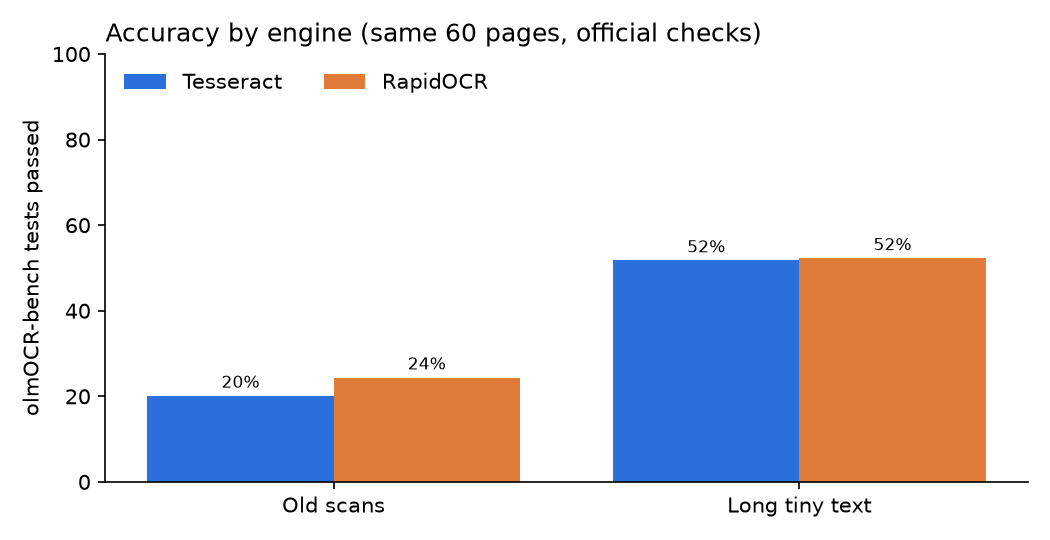
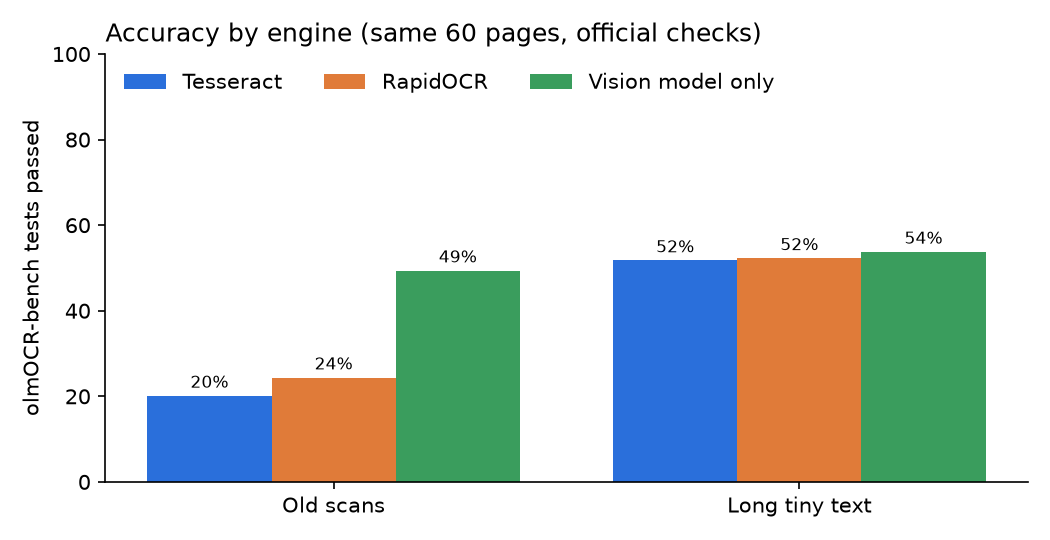
feat: thresholds from the vision benchmark, 0.94 tesseract and 0.96 ocr server

diff --git a/src/ingest.ts b/src/ingest.ts
@@ -39,14 +39,6 @@ export interface OcrOptions {
   serverUrl?: string;
   /** extra HTTP headers sent with every request to `serverUrl` (e.g. auth). */
   serverHeaders?: Record<string, string>;
-  /** OCR language: a Tesseract code (`eng`, `deu`) for the built-in engine, ISO-639-1 (`en`) for servers. */
-  language?: string;
-  /** render DPI for scanned pages and OCR input; higher improves accuracy at a memory cost. */
-  dpi?: number;
-  /** concurrent OCR workers. @default min(4, CPU count) — avoids oversubscription on small (2 vCPU) boxes. */
-  numWorkers?: number;
-  /** path to a `tessdata` directory (built-in Tesseract engine only). */
-  tessdataPath?: string;
 }
 
 export interface IngestOptions {
@@ -63,18 +55,17 @@ export interface IngestOptions {
   visionPrompt: string;
   /** OCR backend: built-in Tesseract (default) or an external server (RapidOCR, PaddleOCR, ...) */
   ocr?: OcrOptions;
-  /** LiteParse settings, e.g. `{ ocrLanguage: 'deu' }` or `{ poolSize: 2, parseTimeoutMs: 60_000 }` */
+  /** LiteParse settings, e.g. `{ ocrLanguage: 'deu', dpi: 200 }` or `{ poolSize: 1, parseTimeoutMs: 60_000 }` */
   liteparse?: Partial<LiteParseConfig> & PoolOptions;
   /** called for every OCR'd image; log it to tune `minConfidence` for your engine and documents */
   onOcr?: (confidence: number, toVision: boolean) => void;
 }
 
 /**
- * Default `minConfidence` per OCR engine. Engines calibrate confidence differently, so one number can't fit
- * both: on olmOCR-bench (bench/README.md) OCR text starts passing about half the checks at 0.90 for
- * Tesseract and 0.93 for RapidOCR; below 0.85 it passes under a quarter.
+ * Default `minConfidence` per OCR engine; engines scale confidence differently. Measured on olmOCR-bench (README):
+ * a vision model beat OCR text on nearly every scanned page, so only the most confident OCR skips it.
  */
-export const MIN_CONFIDENCE = { tesseract: 0.9, server: 0.93 } as const;
+export const MIN_CONFIDENCE = { tesseract: 0.94, server: 0.96 } as const;
 
 /** error whose message is safe to show the model */
 export class AttachmentError extends Error {}
@@ -92,7 +83,7 @@ const IMAGE_FORMATS: Readonly<Record<string, string>> = { jpg: FileType.JPEG, jp
 const text = (t: string): Part => ({ type: 'text', text: t });
 
 /** OCR confidence of the whole image: per-item scores weighted by text length; no text at all = 0 */
-export function ocrConfidence(items: TextItem[]): number {
+function ocrConfidence(items: TextItem[]): number {
   let chars = 0;
   let sum = 0;
   for (const i of items) {
@@ -111,13 +102,9 @@ const UNUSABLE_TEXT = new Set(['scanned', 'garbled', 'vector-text']);
 const isScanned = (p: ParsedPage) =>
   !p.text.trim() || (p.complexity?.reasons.some((r) => UNUSABLE_TEXT.has(r)) ?? false);
 
-/** translate the `ocr` option group into LiteParse config; unset fields fall through to LiteParse defaults */
+/** the `ocr` option as LiteParse config */
 function ocrConfig(ocr: OcrOptions = {}): Partial<LiteParseConfig> {
-  const config: Partial<LiteParseConfig> = { numWorkers: Math.min(4, Math.max(1, cpus().length)) };
-  if (ocr.language) config.ocrLanguage = ocr.language;
-  if (ocr.dpi) config.dpi = ocr.dpi;
-  if (ocr.numWorkers) config.numWorkers = ocr.numWorkers;
-  if (ocr.tessdataPath) config.tessdataPath = ocr.tessdataPath;
+  const config: Partial<LiteParseConfig> = {};
   if (ocr.engine === 'server') {
     // fail at setup, not by silently OCR-ing with Tesseract instead
     if (!ocr.serverUrl) throw new TypeError("ocr: engine 'server' needs `serverUrl`");
@@ -131,8 +118,9 @@ function ocrConfig(ocr: OcrOptions = {}): Partial<LiteParseConfig> {
 
 export function createIngest(opts: IngestOptions) {
   const minConfidence = opts.minConfidence ?? MIN_CONFIDENCE[opts.ocr?.engine === 'server' ? 'server' : 'tesseract'];
-  // `ocr` wins over the raw `liteparse` passthrough so the backend is always explicit
-  const shared = { ...opts.liteparse, ...ocrConfig(opts.ocr) };
+  // OCR workers capped at 4 so a small (2 vCPU) box isn't oversubscribed; `liteparse` can override it,
+  // but not the engine chosen with `ocr`
+  const shared = { numWorkers: Math.min(4, cpus().length), ...opts.liteparse, ...ocrConfig(opts.ocr) };
   // documents: native text only; everything raster is OCR'd by processImage, so nothing is read twice
   const documents = new LiteParse({
     ...shared,

diff --git a/test/middleware.test.ts b/test/middleware.test.ts
@@ -33,7 +33,7 @@ const textOf = (parts: { text?: string }[]) => parts.map((p) => p.text ?? '').jo
 const images = (parts: { type: string }[]) => parts.filter((p) => p.type === 'file').length;
 
 test('clean scan: OCR is confident, the model gets text only', async () => {
-  const parts = await sent(fixture('scan.pdf'), FileType.PDF);
+  const parts = await sent(fixture('scan.pdf'), FileType.PDF, { minConfidence: 0.9 }); // this scan OCRs at 0.93
   assert.match(textOf(parts), /Alan Turing/);
   assert.equal(images(parts), 0);
 });

diff --git a/README.md b/README.md
@@ -95,25 +95,26 @@ independently of the app. `OCR_THREADS` (default 4) sets ONNX threads per reques
 ## Choosing `minConfidence`
 
 OCR engines report a confidence per line. It is the engine's own estimate, **not a measure of correctness**,
-and engines calibrate it differently — RapidOCR's scores sit higher than Tesseract's on the same pages.
+and engines scale it differently — RapidOCR's scores sit higher than Tesseract's on the same pages.
 
 ![Page confidence vs checks passed](docs/images/confidence.png)
 
-Per page, on [olmOCR-bench](#benchmark) (share of human-verified checks the OCR text passes):
+The threshold was chosen by replaying routing on the [benchmark](#benchmark) at every value from 0.50 to 1.00:
+a page whose OCR confidence is at or above the threshold keeps its OCR text, anything below goes to the vision
+model. The rule: the cheapest threshold whose score is within 1 point of the best.
 
-| page confidence | Tesseract | RapidOCR |
-|---|---|---|
-| below 0.85 | 0–20% | 0–22% |
-| 0.85 – 0.90 | 24% | – |
-| 0.90 – 0.93 | 50% | – |
-| 0.93 and above | 28%¹ | 48–53% |
+![Quality vs share of pages sent to the vision model](docs/images/threshold.png)
 
-¹ 3 pages.
+There is no knee: quality rises all the way until every page that needed OCR goes to the vision model. So the
+defaults (`MIN_CONFIDENCE`) are **0.94 for Tesseract and 0.96 for an OCR server** (tuned on RapidOCR) —
+only near-perfect OCR skips the vision model. What that means in practice:
 
-So the default threshold depends on the engine: **0.90 for Tesseract, 0.93 for an OCR server** (tuned on
-RapidOCR), exported as `MIN_CONFIDENCE`. Below it, OCR text fails most checks and the page goes to the vision
-model. These defaults are provisional until the vision-model run is in the benchmark: the final choice is the
-cheapest threshold whose routed score is within 1 point of the best (see [bench/README.md](bench/README.md)).
+- **With `visionModel`:** scans and pictures are read by the vision model; OCR saves the call only on very
+  clean pages. gpt-5-mini cost about $0.005 per page image in the benchmark.
+- **Without `visionModel`:** low-confidence images go to the main model as images; OCR is what turns the rest
+  into cheap text.
+- **Cheaper, lower quality:** set a lower `minConfidence` (e.g. 0.85) to keep more OCR text and send fewer
+  images.
 
 For your own documents, log what the pipeline sees and set `minConfidence` explicitly:
 
@@ -124,30 +125,31 @@ liteparseAttachments({ minConfidence: 0.9, onOcr: (confidence, toVision) => metr
 ## Benchmark
 
 [olmOCR-bench](https://huggingface.co/datasets/allenai/olmOCR-bench) `old_scans` + `long_tiny_text`: the first
-30 pages of each (60 pages, 363 human-verified checks), run through this package's real pipeline in the Linux
-image and scored with olmOCR's official scorer. OCR text kept on every page to measure the engines alone.
+30 pages of each, sorted by name (60 pages, 363 human-verified checks). Every page went through this package's
+real pipeline in the Linux image and was scored with olmOCR's official scorer (`olmocr[bench]==0.4.27`).
+The OCR rows keep OCR text on every page to measure the engines alone.
 
-| engine | score (± 95% CI) | old scans | long tiny text | median / p95 per page |
+| mode | score (± 95% CI) | old scans | long tiny text | median / p95 per page |
 |---|---|---|---|---|
-| Tesseract | 35.9% ± 4.7 | 20.1% | 51.8% | 2.6 s / 12.0 s |
-| RapidOCR (PP-OCRv5) | 38.3% ± 4.9 | 24.4% | 52.3% | 6.2 s / 14.9 s |
-| Vision model only (`none`) | pending² | | | |
+| Tesseract | 35.9% ± 4.8 | 20.1% | 51.8% | 2.6 s / 12.0 s |
+| RapidOCR (PP-OCRv5) | 38.3% ± 4.7 | 24.4% | 52.3% | 6.2 s / 14.9 s |
+| Vision model only (`engine: 'none'`, gpt-5-mini) | **51.6% ± 5.3** | **49.4%** | 53.8% | 15.5 s / 86.5 s |
+| Tesseract, vision below 0.94 (default) | 51.6% | | | |
 
-² Awaiting the vision-model run (gpt-5-mini via OpenRouter).
-
-![Accuracy by engine](docs/images/quality.png)
+![Accuracy by mode](docs/images/quality.png)
 ![Speed per page](docs/images/speed.png)
 
 Takeaways:
 
-- **RapidOCR is not measurably more accurate** on this sample — the gap is inside the confidence interval —
-  and it is about 2x slower per page on the same CPU budget. Keep Tesseract as the default; use the RapidOCR service to move OCR off
-  the app's CPUs, not for accuracy.
-- **Old scans are hard for any OCR engine** (20–24%): this is where the vision model earns its tokens.
-- **Most "long tiny text" pages have a real text layer**: they parse natively in ~0.1 s, no OCR at all.
+- **The vision model more than doubles accuracy on old scans** (49% vs 20–24%). This is where it earns its
+  tokens: the whole 60-page run cost about $0.16 (124K input + 63K output tokens).
+- **RapidOCR is not measurably more accurate than Tesseract** (inside the confidence interval) and is about 2x
+  slower per page. Keep Tesseract as the default; use the RapidOCR service to move OCR off the app's CPUs.
+- **Pages with a real text layer need neither**: 27 of the 30 "long tiny text" pages parsed natively in ~0.1 s.
 
-Timings: the app container capped at 2 vCPU / 4 GB (a small ECS task); RapidOCR in its own container, also
-2 vCPU, over HTTP; pages one at a time. Method, commands and caveats: [bench/README.md](bench/README.md).
+Timings: app container capped at 2 vCPU / 4 GB (a small ECS task); RapidOCR in its own 2-vCPU container over
+HTTP; pages one at a time; vision times include the API round trip. 60 pages: differences under the ±5-point
+interval are not real differences, and only English-heavy sets were measured.
 
 ## Deploy (Linux / ECS)
 
@@ -168,14 +170,14 @@ On small tasks (2 vCPU / 4 GB):
 - Peak memory in the benchmark was 770 MB (Tesseract) to 880 MB (with RapidOCR) per process on dense scans.
 - For a hard per-document deadline and crash isolation, use a worker pool:
   `liteparse: { poolSize: 1, parseTimeoutMs: 60_000 }` — each worker is a separate process.
-- `ocr.numWorkers` already caps at `min(4, CPUs)`; keep `ocr.dpi` at 150 unless scans need 200.
+- OCR workers already cap at `min(4, CPUs)`; keep `liteparse.dpi` at 150 unless scans need 200.
 - Lower `cacheMB` and `maxFileBytes` if the task runs other work.
 
 ## Options
 
 | option | default | |
 |---|---|---|
-| `ocr` | `{ engine: 'tesseract' }` | `engine`, `serverUrl`, `serverHeaders`, `language`, `dpi`, `numWorkers`, `tessdataPath` |
+| `ocr` | `{ engine: 'tesseract' }` | `engine` (`tesseract` / `server` / `none`), `serverUrl`, `serverHeaders` |
 | `minConfidence` | per engine (`MIN_CONFIDENCE`) | OCR below this (0-1) goes to the vision model; an image with no text scores 0 |
 | `visionModel` | – | e.g. `openai('gpt-5-mini')`; unset = images go to the main model |
 | `visionPrompt` | see `DEFAULTS` | instruction for `visionModel` |
@@ -185,12 +187,11 @@ On small tasks (2 vCPU / 4 GB):
 | `maxTextChars` | `200000` | plain-text files are cut after this, with a note |
 | `maxFileBytes` | `50 MB` | larger files are not parsed |
 | `cacheMB` | `256` | in-memory cache of parsed files, by sha256 |
-| `liteparse` | – | raw LiteParse config, e.g. `{ poolSize: 1, parseTimeoutMs: 60000 }` |
+| `liteparse` | – | LiteParse config, e.g. `{ ocrLanguage: 'deu', dpi: 200 }` or `{ poolSize: 1, parseTimeoutMs: 60000 }` |
 | `onError` | `console.warn` | errors that were turned into a note or a passthrough |
 
-Also exported: `FileType`, `DOCUMENT_TYPES`, `IMAGE_TYPES`, `MODEL_TYPES`, `isDocumentType`, `isImageType`,
-`isTextType`, `mediaTypeOf` (media type from a file name, for files read on the server), `noServerDownloads`,
-`createIngest` (the parsing pipeline without a model), `ocrConfidence`, `MIN_CONFIDENCE`, `DEFAULTS`.
+Also exported: `FileType`, `mediaTypeOf` (media type from a file name, for files read on the server),
+`noServerDownloads`, `createIngest` (the parsing pipeline without a model), `MIN_CONFIDENCE`, `DEFAULTS`.
 
 ## Develop
 
@@ -199,7 +200,7 @@ npm test                                               # LiteParse for real on t
 docker build -t ai-sdk-liteparse . && docker run --rm ai-sdk-liteparse   # all tests on Linux, as in production
 ```
 
-Benchmark: [bench/README.md](bench/README.md). Examples: [examples/](examples).
+Examples: [examples/](examples).
 
 ## License
 
